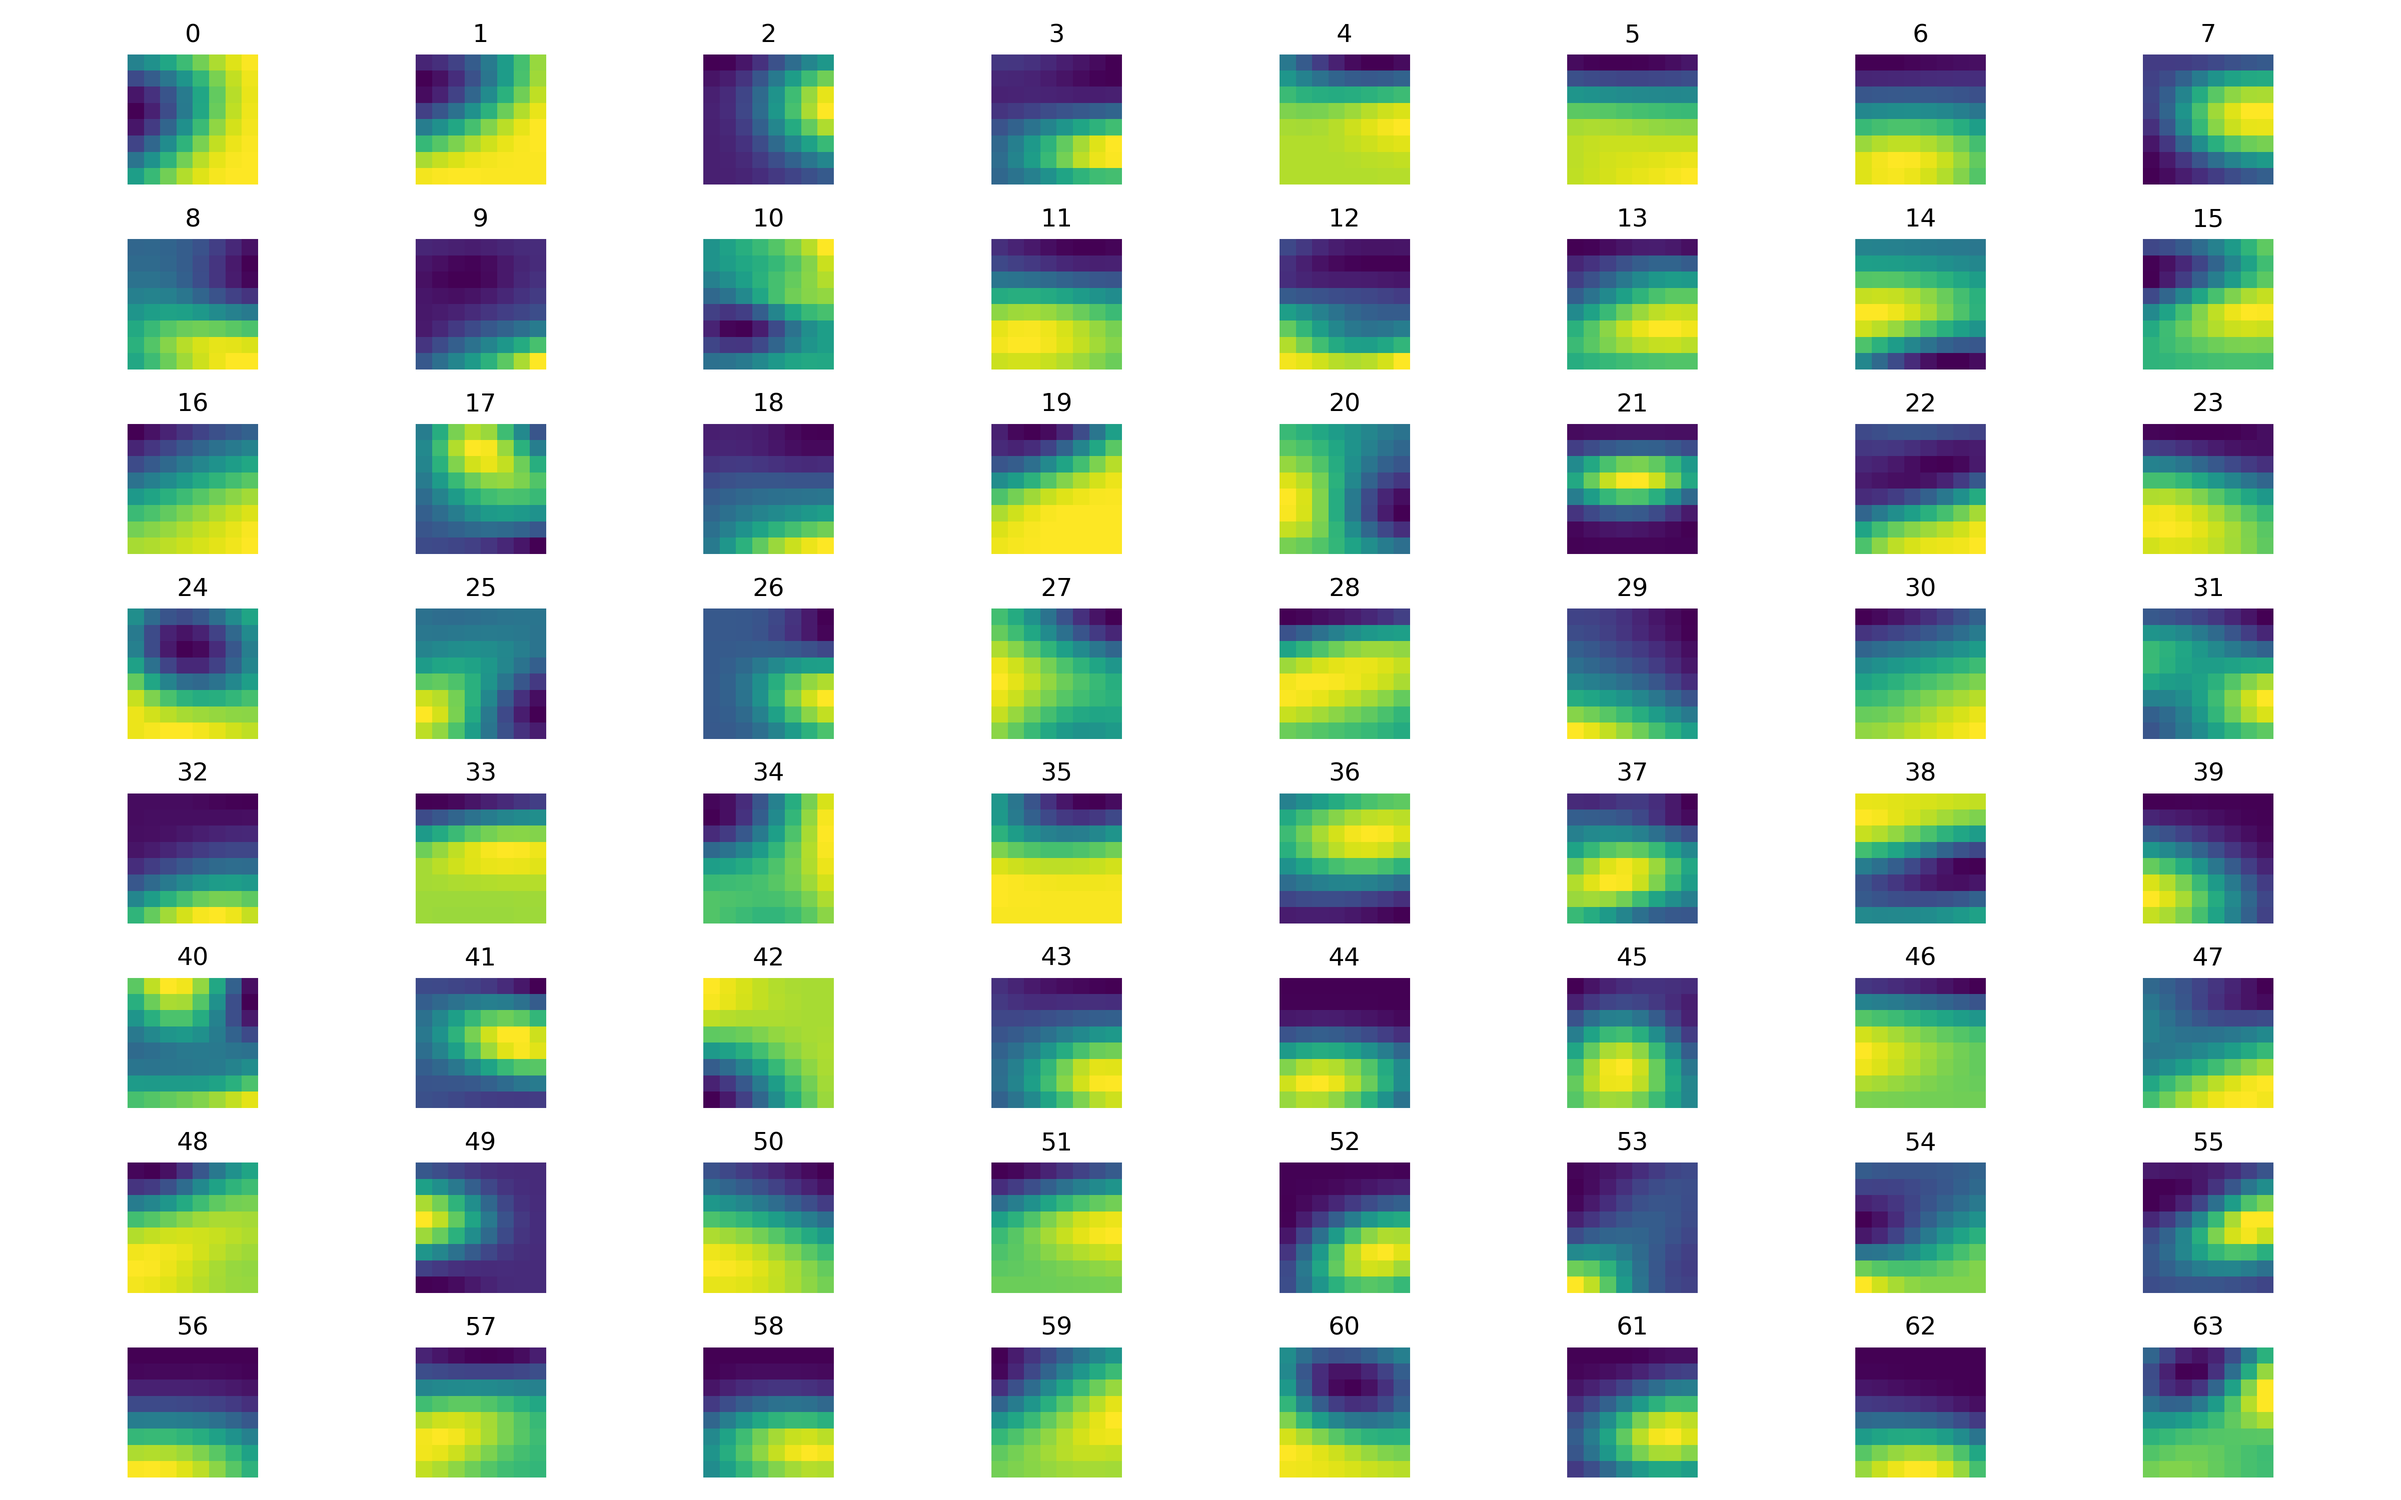
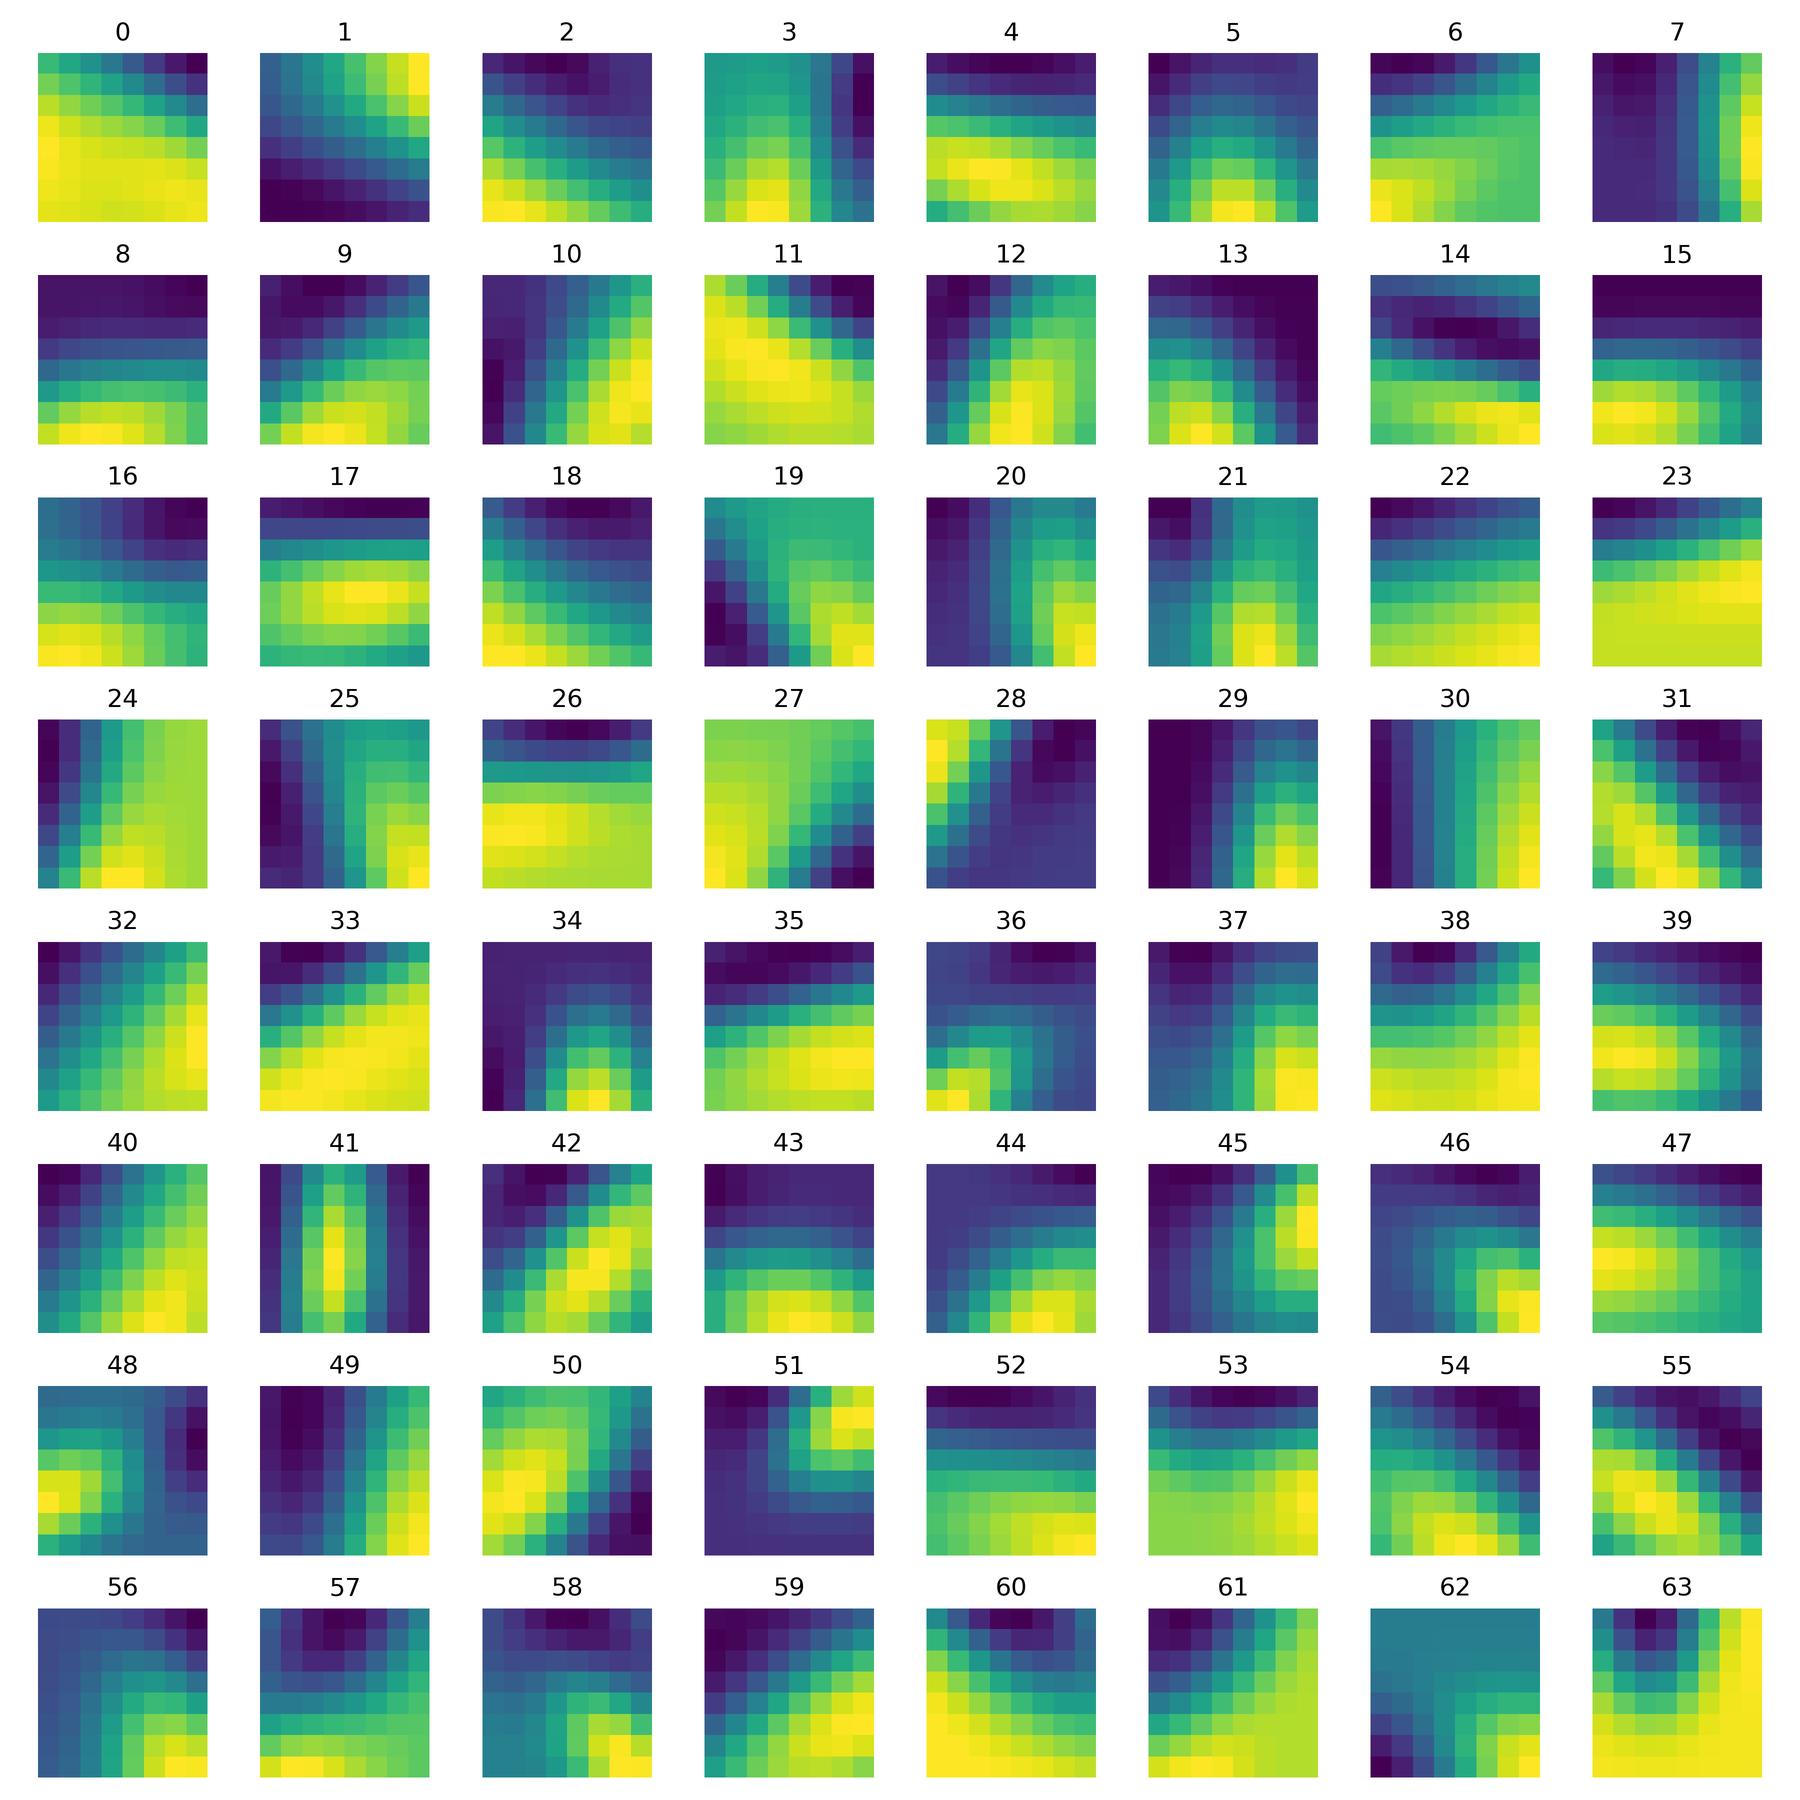
Add gleam GMM prior

diff --git a/gleam/gleam_client.py b/gleam/gleam_client.py
@@ -1,0 +1,221 @@
+"""
+GLEAM VO client / API
+
+Dependency: pip install -U astropy
+
+Usage example
+====
+import gleam_client
+gleam_client.vo_get(50.67, -37.02, 1.0, freq=['072-080', '080-088'],
+                    proj_opt='SIN', download_dir='/tmp')
+====
+
+Author: chen.wu@icrar.org
+"""
+import os, warnings
+from urllib.request import urlopen, quote, HTTPError
+from io import StringIO, BytesIO
+from astropy.io.votable import parse_single_table
+
+PROJ_OPTS = ["ZEA", "ZEA_regrid", "SIN"]
+VO_URL = "http://{0}/gleam_postage/q/siap.xml?FORMAT=ALL&VERB=2" "&NTERSECT=OVERLAPS&"
+
+
+class GleamClientException(Exception):
+    pass
+
+
+def create_filename(ra, dec, ang_size, freq, error=False):
+    """
+    You can write your own create_filename function however you like
+    Here is a dummy example
+    """
+    if error:
+        return "error_{0}_{1}_{2}_{3}.html".format(ra, dec, ang_size, freq)
+    else:
+        return "{0}_{1}_{2}_{3}.fits".format(ra, dec, ang_size, freq)
+
+
+def download_file(
+    url, ra, dec, ang_size, freq, download_dir, file_name_func=None, clobber=True
+):
+    """ """
+    if file_name_func is None:
+        file_name_func = create_filename
+
+    filename = file_name_func(ra, dec, ang_size, freq)
+    fulnm = download_dir + "/" + filename
+
+    if os.path.exists(fulnm) and not clobber:
+        print("File '%s' exists already" % fulnm)
+        return
+    try:
+        u = urlopen(url, timeout=200)
+    except HTTPError as hpe:
+        if 500 == hpe.code:
+            err_msg = None
+            try:
+                err_msg = hpe.fp.read()
+                if err_msg:
+                    filename = file_name_func(ra, dec, ang_size, freq, error=True)
+                    fulnm = download_dir + "/" + filename
+                    with open(fulnm, "wb") as f:
+                        f.write(err_msg)
+                    print("Error info at '{0}'".format(fulnm))
+                    return
+                else:
+                    raise hpe
+            except:
+                raise hpe
+        else:
+            raise hpe
+
+    if u.headers["content-type"] == "image/fits":
+        # we know for sure this is a fits image file
+        # filename = "{0}_{1}_{2}.fits".format(ra, dec, freq)
+        derror = False
+    else:
+        filename = file_name_func(ra, dec, ang_size, freq, error=True)
+        derror = True
+
+    block_sz = 1024 * 256
+
+    fulnm = download_dir + "/" + filename
+
+    with open(fulnm, "wb") as f:
+        while True:
+            buff = u.read(block_sz)
+            if not buff:
+                break
+
+            f.write(buff)
+        if derror:
+            msg = "Error info at '{0}'".format(fulnm)
+        else:
+            msg = "File '{0}' downloaded".format(fulnm)
+        print(msg)
+
+
+def vo_get(
+    ra,
+    dec,
+    ang_size,
+    proj_opt="ZEA",
+    download_dir=None,
+    vo_host="gleam-vo.icrar.org",
+    freq=[],
+    clobber=True,
+    file_name_func=None,
+    alter_cmd=None,
+    **kwargs
+):
+    """
+    ra, dec,
+    ang_size:	    Position and angular size in degrees (float)
+
+    download_dir:	Directory where images will be saved to (String).
+                                Leaving it None (default) will not download any images
+
+    proj_opt:   	Legitimit values (String):
+                        'ZEA'   (default)
+                        'ZEA_regrid'
+                        'SIN'
+
+    freq:       	A list of frequencies, e.g. ['223-231' '216-223']
+                        An empty list means ALL
+
+    clobber:		Overwrite existing images? (Boolean)
+
+    file_name_func:
+                        An optional function to create file name as you like.
+                        Leaving it None will use the default "create_filename()"
+    """
+    if ang_size > 5.0:
+        raise GleamClientException("Angular size %.1f > 5.0 (degrees)" % ang_size)
+
+    if download_dir and (not os.path.exists(download_dir)):
+        raise GleamClientException("Invalid download dir: {0}".format(download_dir))
+
+    if not proj_opt in PROJ_OPTS:
+        raise GleamClientException(
+            "Invalid projection: '{0}'."
+            " Should be one of {1}".format(proj_opt, PROJ_OPTS)
+        )
+
+    url = VO_URL.format(vo_host)
+    pos_p = "POS=%s" % quote("{0},{1}".format(ra, dec))
+    proj_opt_p = "proj_opt=%s" % proj_opt
+    size_p = "SIZE=%f" % (float(ang_size))
+    url += "&".join([pos_p, proj_opt_p, size_p])
+    # print url
+    u = urlopen(url, timeout=200)
+    warnings.simplefilter("ignore")
+
+    buf = []
+    while True:
+        buff = u.read(1024)
+        if not buff:
+            break
+        buf.append(buff.decode("utf-8"))
+    vo_table = "".join(buf)
+    # print(vo_table)
+    fp = BytesIO(vo_table.encode("utf-8"))
+    tbl = parse_single_table(fp).array
+
+    warnings.simplefilter("default")
+    ignore_freq = len(freq) == 0
+    c = 0
+    if len(kwargs) > 0:
+        tail = "&".join(["{0}={1}".format(k, v) for k, v in kwargs.items()])
+    else:
+        tail = None
+    for row in tbl:
+        r_freq = row[0]
+        r_url = row[1]
+        if ignore_freq or r_freq in freq:
+            if tail:
+                r_url += "&%s" % tail
+            if alter_cmd is not None and len(alter_cmd) > 0:
+                r_url = r_url.replace("GLEAMCUTOUT", alter_cmd)
+            if download_dir:
+                download_file(
+                    r_url,
+                    ra,
+                    dec,
+                    ang_size,
+                    r_freq,
+                    download_dir,
+                    clobber=clobber,
+                    file_name_func=file_name_func,
+                )
+            else:
+                print(r_freq, r_url)
+            c += 1
+    if c == 0:
+        warnings.warn("No results from the VO query")
+
+
+def usage_examples():
+    """
+    Three examples to cutout Fornax A
+
+    """
+    ra = 50.67
+    dec = -37.20
+    ang_size = 1.0
+    freq_low = ["072-080", "080-088"]
+    projection = "SIN"
+    dl_dir = "/tmp"
+
+    # example 1 - just to see what is going to be downloaded (low frequencies)
+    vo_get(ra, dec, ang_size, proj_opt=projection, freq=freq_low)
+
+    # example 2 - now really get them
+    vo_get(ra, dec, ang_size, proj_opt=projection, freq=freq_low, download_dir=dl_dir)
+
+    # example 3 - download all frequencies (Not specifying freq means ALL freqs)
+    vo_get(ra, dec, ang_size, proj_opt=projection, download_dir=dl_dir)
+
+
+if __name__ == "__main__":
+    usage_examples()

diff --git a/gleam/preprocess.py b/gleam/preprocess.py
@@ -1,0 +1,64 @@
+import logging
+from pathlib import Path
+
+from astropy import units as u
+from gammapy.maps import HpxGeom, WcsGeom
+from gleam_client import vo_get
+
+log = logging.getLogger(__name__)
+logging.basicConfig(level=logging.DEBUG)
+
+ANG_SIZE = 5
+HPX_GEOM = HpxGeom.create(binsz=3 * u.deg)
+GC_PLANE = WcsGeom.create(skydir=(0, 0), frame="galactic", width=(180, 12))
+
+PROJECTION = "ZEA"
+
+FREQUENCIES = [
+    "170-231",
+]
+
+
+def create_filename(ra, dec, ang_size, freq, error=False):
+    """
+    You can write your own create_filename function however you like
+    Here is a dummy example
+    """
+    if error:
+        return "error_{0:.0f}_{1:.0f}.html".format(ra, dec)
+    else:
+        return f"{freq}MHz-ra-{ra:.1f}-dec-{dec:.1f}-stamp.fits"
+
+
+def download_stamps():
+    coords = HPX_GEOM.get_coord().skycoord
+    selection = GC_PLANE.contains(coords)
+
+    for skydir in coords[selection]:
+        filename = create_filename(
+            ra=skydir.icrs.ra.deg,
+            dec=skydir.icrs.dec.deg,
+            ang_size=ANG_SIZE,
+            freq=FREQUENCIES[0],
+        )
+
+        path = Path("images") / filename
+
+        if path.exists() or path.with_suffix(".fits.gz").exists():
+            log.info(f"Skipping {path} as it already exists.")
+            continue
+
+        vo_get(
+            ra=skydir.icrs.ra.deg,
+            dec=skydir.icrs.dec.deg,
+            ang_size=ANG_SIZE,
+            download_dir="images",
+            projection=PROJECTION,
+            file_name_func=create_filename,
+            freq=FREQUENCIES,
+            clobber=True,
+        )
+
+
+if __name__ == "__main__":
+    download_stamps()

diff --git a/make.py b/make.py
@@ -107,6 +107,9 @@ def extract_patches(filename):
         smoothed = gaussian_filter(image, sigma)
         image_coarse = block_reduce(smoothed, block_size, func=np.mean)
 
+        image_coarse = image_coarse / np.nanmax(image_coarse)
+        image_coarse = np.clip(image_coarse, 0, 1)
+
         if config["extract-patches"].get("random-rotation", False):
             image_coarse = apply_random_rotation(image_coarse)
 
@@ -123,6 +126,7 @@ def extract_patches(filename):
     filename_patches = filename.parent / config["extract-patches"]["filename"]
     filename_patches.parent.mkdir(exist_ok=True, parents=True)
 
+    log.info(f"Extracted {len(patches_normed)} patches.")
     log.info(f"Writing {filename_patches}")
     fits.writeto(filename_patches, data=patches_normed, overwrite=True)
 
